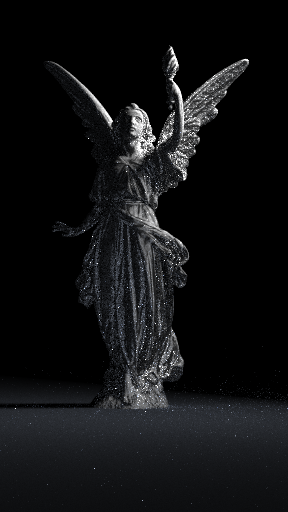
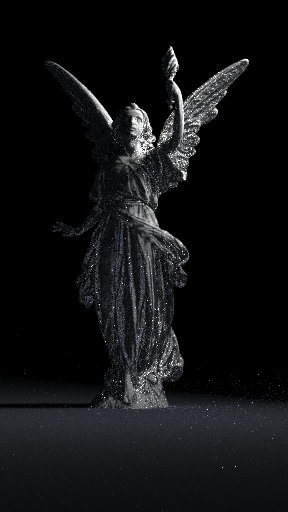
Fixes

diff --git a/core/src/primitives/triangle.cpp b/core/src/primitives/triangle.cpp
@@ -164,14 +164,33 @@ double triangle::pdf_value(const point3& o, const vector3& v) const
     return 1.0 / omega;
 }
 
+//vector3 triangle::random(const point3& o, randomizer& rnd) const
+//{
+//    // From https://math.stackexchange.com/questions/18686/uniform-random-point-in-triangle-in-3d
+//    double r1 = rnd.get_real(0.0, 1.0);
+//    double r2 = rnd.get_real(0.0, 1.0);
+//    double ca = (1.0 - glm::sqrt(r1)), cb = glm::sqrt(r1) * (1. - r2), cc = r2 * glm::sqrt(r1);
+//    vector3 random_in_triangle = verts[0] * ca + verts[1] * cb + verts[2] * cc;
+//    return random_in_triangle - o;
+//}
+
 vector3 triangle::random(const point3& o, randomizer& rnd) const
 {
     // From https://math.stackexchange.com/questions/18686/uniform-random-point-in-triangle-in-3d
+    // Generate two random values between 0 and 1
     double r1 = rnd.get_real(0.0, 1.0);
     double r2 = rnd.get_real(0.0, 1.0);
-    double ca = (1.0 - glm::sqrt(r1)), cb = glm::sqrt(r1) * (1. - r2), cc = r2 * glm::sqrt(r1);
-    vector3 random_in_triangle = verts[0] * ca + verts[1] * cb + verts[2] * cc;
-    return random_in_triangle - o;
+
+    // Calculate sqrt of r1 only once
+    double sqrt_r1 = glm::sqrt(r1);
+
+    // Calculate the weights for each vertex
+    double ca = 1.0 - sqrt_r1;
+    double cb = sqrt_r1 * (1.0 - r2);
+    double cc = sqrt_r1 * r2;
+
+    // Calculate and return the weighted sum, adjusted by point `o`
+    return verts[0] * ca + verts[1] * cb + verts[2] * cc - o;
 }
 
 /// <summary>
